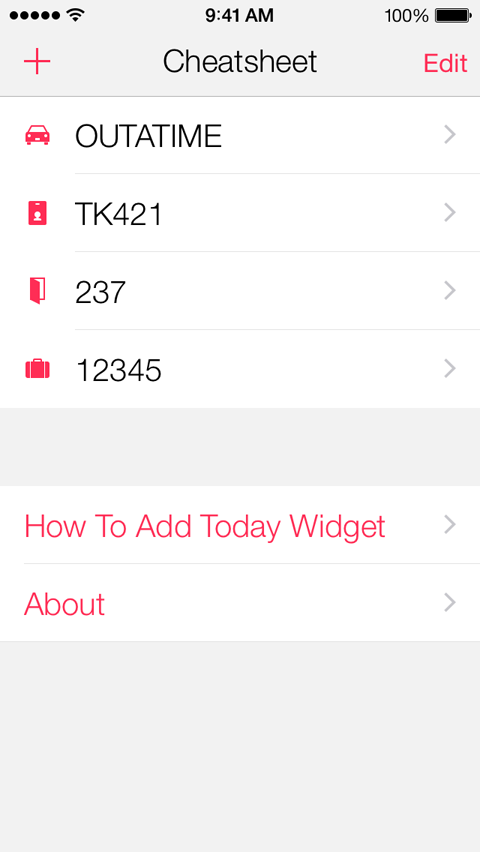
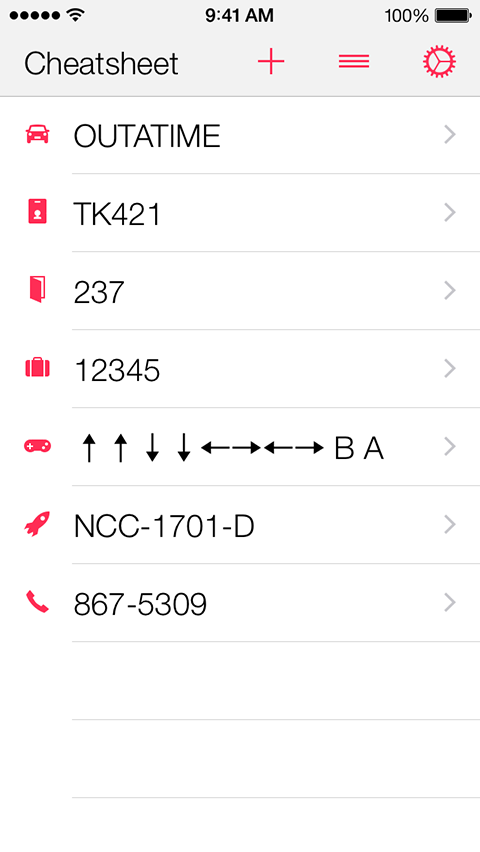
Update portfolio with Cheatsheet 2.0

diff --git a/portfolio/index.html b/portfolio/index.html
@@ -88,7 +88,7 @@
 
 					<p>Write down the little things you always forget: hotel rooms, license plates, luggage combination, employee ID number. With Cheatsheet, there&rsquo;s no more fumbling to unlock your phone and find your notes app; it&rsquo;s as easy as pulling down Notification Center.</p>
 					
-					<p>I made the initial <a href="/cheatsheet">Cheatsheet iPhone/iPad app</a> over a long weekend in September 2014. Since then, it&rsquo;s had more than 100,000 downloads and earned a five-star rating in the App&nbsp;Store.</p>
+					<p>I made the initial <a href="/cheatsheet">Cheatsheet iPhone/iPad app</a> over a long weekend in September 2014. Since then, it&rsquo;s had more than 100,000 downloads and earned a five-star rating in the App&nbsp;Store. For Cheatsheet 2.0 in April 2015, I added a custom keyboard and an Apple Watch app.</p>
 					
 					<a class="app-link" href="https://itunes.apple.com/us/app/cheatsheet-quick-reference/id914665829"><img src="/cheatsheet/Download_on_the_App_Store_Badge_US-UK_135x40.svg" alt="Cheatsheet in the App Store"></a>
 
@@ -96,15 +96,15 @@
 					<ul class="image-links list-unstyled" data-od-id="cheatsheet-demo">
 						<li class="active" data-od-url="/images/cheatsheet/main852.png">1</li>
 						<li data-od-url="/images/cheatsheet/widget852.png">2</li>
-						<li data-od-url="/images/cheatsheet/add852.png">3</li>
+						<li data-od-url="/images/cheatsheet/keyboard852.png">3</li>
 					</ul>
 
 					<ul class="image-captions list-unstyled hidden-xs">
-						<li class="active">Write down things you forget. Pick icons you&rsquo;ll recognize.</li>
+						<li class="active">Write down those little things you never remember. Choose icons you&rsquo;ll recognize.</li>
 
-						<li>Next time you need to remember one of them, just pull down Notification Center.</li>
+						<li>Look them up anytime with the Today widget.</li>
 
-						<li>Cheatsheet comes with 49 &ldquo;hint&rdquo; icons, designed by me.</li>
+						<li>Paste them anywhere with the custom keyboard.</li>
 					</ul>
 				</div>
 
